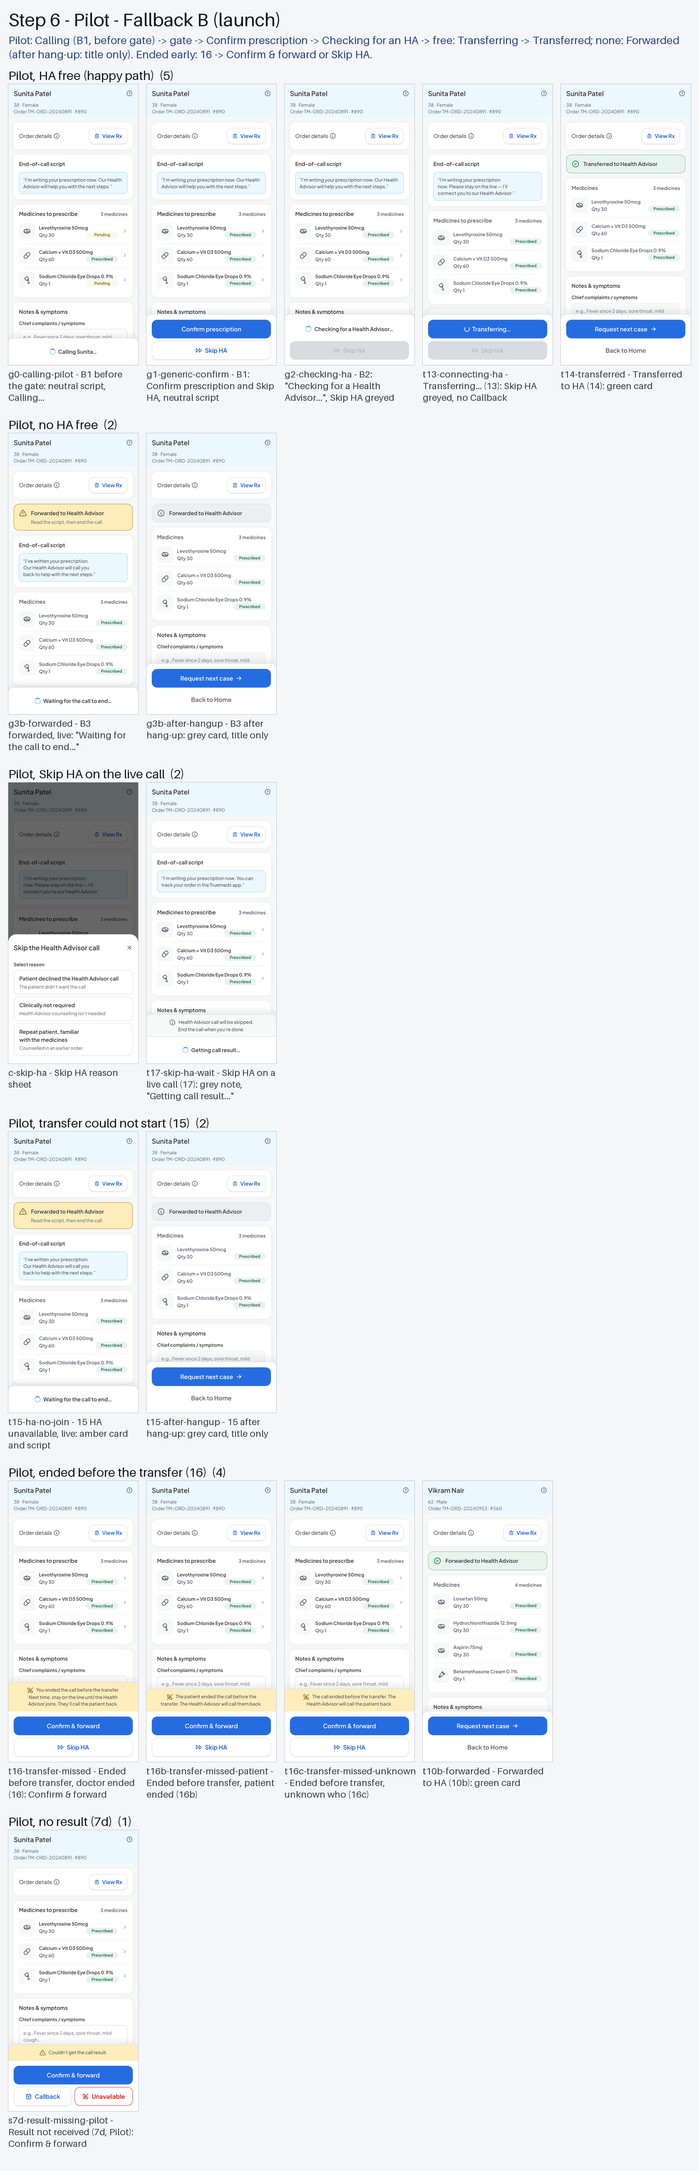
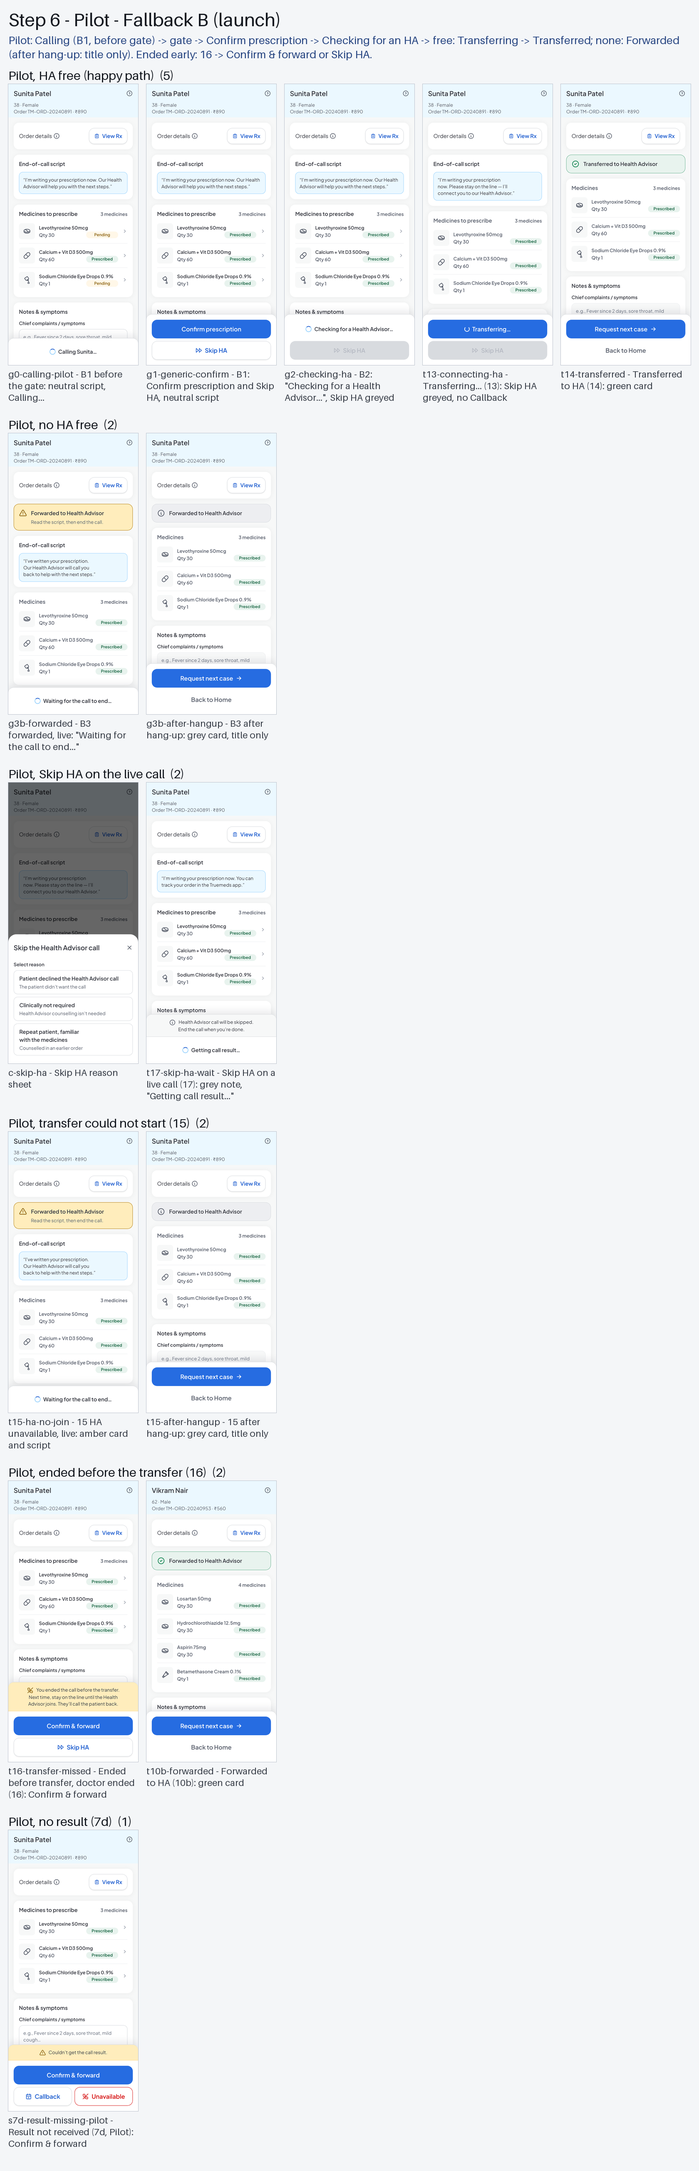
Doctor portal: a-confirm-failed without Callback (D-83 CW-C3, re-rendered); plan + checklist v3.2 approved (D-90)
Claude-Session: https://claude.ai/code/session_0184B2yP3hzu7xZN3ZKbVtJC

Changed region(s): [[0.2167, 0.7188, 0.7738, 0.8438]]

diff --git a/projects/truemeds-doctor-portal-prototype/ui-screens/case/case.html b/projects/truemeds-doctor-portal-prototype/ui-screens/case/case.html
@@ -1193,7 +1193,7 @@ document.addEventListener('DOMContentLoaded', syncCaseActionBar);
       const b = $('ps-body'); const l = [...b.querySelectorAll('.tm-field__label')].find(e => /^Food/.test(e.textContent.trim())); if (l) b.scrollTop += l.getBoundingClientRect().top - b.getBoundingClientRect().top - 16; }, 150); },
     'd-disabled':              () => { switchScenario(CAT4); const m = DOCTOR_STATE.currentCase.medicines.find(x => x.id === 1); m.disabled = true; m.disable_reason = 'Patient declined'; openPS(1); },   // D-81 F17 (D-20)
     'a-confirm-busy':          () => { passGate(CAT4); allRx(); $('action-zone').style.display = 'none'; const b = $('main-cta-btn'); b.classList.add('tm-btn--busy'); b.disabled = true; b.setAttribute('aria-busy', 'true'); b.innerHTML = '<span class="tm-spinner" aria-hidden="true"></span>' + MSG('case.confirming'); $('ab-secondary').querySelectorAll('button').forEach(x => x.disabled = true); $('case-actionbar').querySelectorAll(':scope > button').forEach(x => { if (x !== b) x.disabled = true; }); window.__frozen = true; syncConcept(); },   // D-81 F24/F25: rows and notes read-only; View Rx stays outlined (D-76)
-    'a-confirm-failed':        () => { passGate(CAT4); allRx(); $('action-zone').style.display = 'none'; noticeAboveBar(notice('error', 'alert', MSG('case.confirmFailed'), 'alert-circle')); },
+    'a-confirm-failed':        () => { passGate(CAT4); allRx(); return later(() => { $('action-zone').style.display = 'none'; $('ab-secondary').style.display = 'none'; noticeAboveBar(notice('error', 'alert', MSG('case.confirmFailed'), 'alert-circle')); }, 200); },   // D-83 CW-C3: after a valid call only the confirm button — no Callback (same pattern as t08c)
     'a-release-failed':        () => { switchScenario(CAT4); showLeave(); const b = $('cl-release'); b.classList.add('tm-btn--busy'); b.disabled = true; b.innerHTML = '<span class="tm-spinner" aria-hidden="true"></span>Releasing…'; $('cl-stay').disabled = true; $('cl-x').disabled = true; setTimeout(() => { leave.hidden = true; b.classList.remove('tm-btn--busy'); b.disabled = false; b.textContent = 'Release case'; $('cl-stay').disabled = false; $('cl-x').disabled = false; noticeAboveBar(notice('error', 'alert', MSG('case.releaseFailed'), 'alert-circle')); ready(); }, 300); return 'wait'; },   // A-19: the result of an action sits in the bar, above its button
     'd-rx-failed':             () => { switchScenario(CAT4); openRxOverlay(); $('rx-doc-wrapper').style.display = 'none'; $('rx-hint').style.display = 'none'; $('rx-controls').style.display = 'none'; const f = document.createElement('div'); f.className = 'concept-new concept-stack'; f.appendChild(notice('error', 'alert', MSG('rx.loadFailed'), 'alert-circle')); $('rx-overlay-body').appendChild(f); const bar = document.createElement('div'); bar.className = 'tm-actionbar concept-new'; bar.appendChild(pinnedTryAgain()); $('rx-overlay').appendChild(bar); },
     'a-no-medicines':          () => { switchScenario(CAT4); renderMedicines([]); $('medicines-count').style.display = 'none'; const e = document.getElementById('medicines-empty'); e.hidden = true; e.innerHTML = ''; window.__emptyCase = true; $('action-zone').style.display = 'none'; main.insertBefore(cardNotice(notice('warning', 'status', MSG('case.noMedicines'), 'alert-triangle')), tools); const rel = btn('tm-btn--primary tm-btn--block', 'Release case'); rel.onclick = () => $('cl-release').click(); setBar(rel); },   // K4 (CW-A6): amber notice at the top of the panel; Release case releases directly

diff --git a/projects/truemeds-doctor-portal-prototype/docs/renders/2026-11-06-confirm-failed-fix/REPORT.md b/projects/truemeds-doctor-portal-prototype/docs/renders/2026-11-06-confirm-failed-fix/REPORT.md
@@ -1,0 +1,52 @@
+# Report — re-render `a-confirm-failed` (Callback removed)
+
+Date: 2026-11-06 · Brief: `BRIEF.md` (backlog bug 2026-11-05) · Runner: Claude Code (terminal)
+
+## Bug and fix
+- `ui-screens/case/a-confirm-failed` (390 and 360) showed **Callback** under Confirm prescription. After a valid call only the confirm button shows (D-83 CW-C3).
+- The recipe fix was already in `ui-screens/case/case.html` (line for `'a-confirm-failed'`: hides `ab-secondary`, same pattern as `t08c`). I did not change `case.html`.
+
+## Files changed
+- `ui-screens/case/a-confirm-failed_w390.png` — replaced with the new render.
+- `ui-screens/case/a-confirm-failed_w360.png` — replaced with the new render.
+- `ui-screens/case/contact-case.png` — rebuilt by `build-contact-sheets.py` (it shows the 390 picture above, so it has to match).
+- `docs/reviews/2026-11-05-plan-v3-review/build-map/index.md`, `step-3.png`, `step-6.png` — rebuilt by `build-map.py` (see note below).
+- New folders: `docs/renders/2026-11-06-confirm-failed-fix/before/` (old pair), `after/` (new pair, `capture-log.json`, `spinners.json`), this `REPORT.md`.
+
+Not changed, by design: `case.html` (already fixed before this task), backlog, decision log, commits.
+
+Reverted: `build-contact-sheets.py` also rewrote six contact sheets for folders I did not touch (`sign-in`, `otp`, `home`, `prescribe`, `returning-unlock`, `faster-signin-offer`). I restored them with `git checkout`.
+
+## Render
+- Method: `docs/renders/2026-11-03-calling-round/capture-method-cap.py` with `case/a-confirm-failed$`. Rendered 2 pictures, 0 page errors.
+- The script needs Playwright. The system Python does not have it, so I ran it from a scratch venv (outside the repo) with Playwright and Chromium installed there. No repo dependency added.
+
+## Check of the new pictures (opened both, 390 and 360)
+- No Callback. Only Confirm prescription in the bar.
+- Red band "Couldn't confirm. Nothing was lost." sits inside the bar, above Confirm prescription.
+- Medicines rows, View Rx, header and notes unchanged in look.
+
+## Before / after
+- Difference starts at the bottom edge of the Medicines card (2x y≈1233) and runs down through the bar. Rows below the bar are identical (24 rows from the bottom match).
+- Expected, not a stray change: the bar lost the Callback row, so the scroll area above it is taller. The Notes card now shows a little more above the band.
+
+## Guards
+| Guard | Result |
+|---|---|
+| `ui-screens/feedback/check-locked-specs.py` | PASS — 0 failures over 149 states × 3 viewports; small-phone pass 149 states at 360×640 |
+| `node ui-screens/feedback/check-sources.mjs` | PASS — 660 strings, 85 registry IDs |
+| `docs/layout_check.py` | ALL PASS (includes `no page errors`) |
+| `brand/check_lockup.py` | lockup OK |
+
+## Review-aid rebuild
+- `build-contact-sheets.py`: ran. Kept `contact-case.png`; reverted the six unrelated sheets (see above).
+- `build-map.py`: ran. Output rebuilt, but it now reports a plan-text problem, not a picture problem:
+  - Unmatched tokens: `t16b-…`, `t16c-…` (plan step 6 now uses an ellipsis form the parser doesn't expand) and `rx.load-failed` (plan step 3, a behaviour-only state with no picture).
+  - Result: 147 of 149 pictures placed; `t16b` and `t16c` missing from the step 6 image.
+  - `d-rx-failed` now named in plan step 4 as well as step 3. Shown at step 3.
+  - Fix belongs in the parser or plan wording; I did not change either. Flag for the main thread.
+
+## Open items for the main thread
+- Backlog tick and decision log: not touched (per brief).
+- Commit and push: not done (per brief).
+- build-map gap above.

diff --git a/projects/truemeds-doctor-portal-prototype/docs/reviews/2026-11-05-plan-v3-review/build-map/index.md b/projects/truemeds-doctor-portal-prototype/docs/reviews/2026-11-05-plan-v3-review/build-map/index.md
@@ -10,22 +10,22 @@ Review aid for Apurva (approve from screens, not state names). Each image: appro
 | 3 | Case page (incl. empty case, leave sheet, release failed, Rx failed) | 22 | Case opened -> Ready (Call patient starts step 5). | [step-3.png](step-3.png) |
 | 4 | Prescribe and Disable | 22 | Case -> tap a medicine -> Prescribe (schedule, dose) -> Prescribed. | [step-4.png](step-4.png) |
 | 5 | Calling - Cat4 and Pilot with HA skipped | 22 | Call patient -> Calling. | [step-5.png](step-5.png) |
-| 6 | Pilot - Fallback B (launch) | 16 | Pilot: Calling (B1, before gate) -> gate -> Confirm prescription -> Checking for an HA -> free: Transferring -> Transferred; none: Forwarded (after hang-up: title only). | [step-6.png](step-6.png) |
+| 6 | Pilot - Fallback B (launch) | 14 | Pilot: Calling (B1, before gate) -> gate -> Confirm prescription -> Checking for an HA -> free: Transferring -> Transferred; none: Forwarded (after hang-up: title only). | [step-6.png](step-6.png) |
 | 9 (LATER) | LATER - Version A (not in the first build) | 3 | Calling (transfer case) -> Confirm & transfer -> Transferring -> Transferred. | [step-9.png](step-9.png) |
 | 7 | Across journeys: availability ends mid-case, reopen into an open case, app backgrounded during a call | none (app-logic 3 - 4) | - | - |
 | 8 | Final pass: copy parity with native, G7 over everything | all (no new picture) | - | - |
 
 ## Gaps
 
-- Pictures in ui-screens/ that no step uses: 0 (none).
-- Plan section 5 tokens that match no picture: 0 (none).
-- Named twice in plan section 5 (shown once, at the step that names it exactly): `d-rx-failed` named in step 3 (exact), step 4 (range/wildcard); shown once, at step 3. `s7d-result-missing-pilot` named in step 5 (range/wildcard), step 6 (exact); shown once, at step 6. `s7e-leave-sheet` named in step 3 (exact), step 5 (range/wildcard); shown once, at step 3.
+- Pictures in ui-screens/ that no step uses: 2 (case/t16b-transfer-missed-patient, case/t16c-transfer-missed-unknown)
+- Plan section 5 tokens that match no picture: 3 ([(3, 'rx.load-failed'), (6, 't16b-…'), (6, 't16c-…')])
+- Named twice in plan section 5 (shown once, at the step that names it exactly): `d-rx-failed` named in step 3 (exact), step 4 (range/wildcard), step 4 (exact); shown once, at step 3. `s7d-result-missing-pilot` named in step 5 (id/folder), step 6 (exact); shown once, at step 6.
 - Behaviour-only states (in feedback-state-map, no picture, not on the map): `offer.cancelled` (step 1), `offer.not-now` (step 1), `offer.unsupported` (step 1), `offer.enabled` (step 1), `rx.load-failed` (step 3), `case.reopened` (step 7).
 - Picture triggers that live in a later step (picture shown in step 3, trigger in steps 5-6): `case/a-back-blocked`, `case/a-confirm-busy`, `case/a-confirm-failed`. `home/home_profile-case-open` needs an open case.
 
 ## Self-check
 
-- Every approved picture in this map appears once: 149 placed, 149 unique, pictures on disk 149.
+- Every approved picture in this map appears once: 147 placed, 147 unique, pictures on disk 149.
 - Labels: taken from ui-screens/README.md, calling-flow/data.js, app-logic.md and feedback-state-map.md. Readable at phone width: checked by eye only at the sizes built (see note below).
 - No screen cropped: thumbnails are the full 390 x 844 picture scaled to 40 %.
 - Note: the labels and flow lines were written from the sources above; if a source changes, rerun the script after editing LABELS / FLOW.

diff --git a/projects/truemeds-doctor-portal-prototype/CLAUDE.md b/projects/truemeds-doctor-portal-prototype/CLAUDE.md
@@ -46,7 +46,7 @@ Before any auth/Home UI or render work, read `docs/feedback-rules.md` and `docs/
 ## Current state (2026-11-03) — read first
 - **Screens and app logic are approved and frozen** (D-78, re-frozen D-82): `ui-screens/` (README is the index; **149 states** at 360 and 390) and `ui-screens/app-logic.md`, with **D-83** (calling walkthrough), **D-84** (copy rules + copy round), **D-85** (17 Skip HA on a live call), **D-86** (bar notice centred) and **D-87** (Fallback B is the one Pilot flow; A-only screens later) applied. Render only what is genuinely new; every round runs the regression gate G7 (`docs/renders/2026-11-01-fix-round/CHECKLIST.md`). Anything new is a bug (fix where it occurs) or a next-version idea (backlog §4b).
 - **Start here:** `docs/context/session_handoff.md` (latest entry) and `docs/context/backlog.md` (§2l).
-- **Next: prototype build** — readiness answered (D-88, Part C closed). Build from **plan v3** (`docs/proposals/2026-11-05-prototype-build-plan-v3.md`) and **rebuild checklist v3** (`docs/reviews/2026-11-05-rebuild-checklist-v3.md`) once Apurva approves them: shell first, Fallback B before version A. Calling reference: `calling-flow/` (`data.js`). Preview site deploys only on request. Do not extend `index.html` / `app.js`.
+- **Now: prototype build, step 0** — plan v3.2 and rebuild checklist v3.2 **approved** (D-90): `docs/proposals/2026-11-05-prototype-build-plan-v3.md`, `docs/reviews/2026-11-05-rebuild-checklist-v3.md`. Fallback B first; one owner per picture; phone testing via QR play link + drawer (D-89). Step 0 begins with the stale-line fixes in `docs/reviews/2026-11-05-plan-v3-review/MERGE.md` §4. Calling reference: `calling-flow/` (`data.js`). Preview site deploys only on request. Do not extend `index.html` / `app.js`.
 - **Checks:** `ui-screens/feedback/check-locked-specs.py`, `check-sources.mjs`, `docs/layout_check.py`, `brand/check_lockup.py` — all 0 failures over all 149 states. Rebuild review aids with `ui-screens/_qa/` (`build-review.py`, `build-contact-sheets.py`, `build-storyboard.py`).
 - **Sub-sessions (terminal, Codex) never write to the decision log or record approvals in Apurva's name;** they report under NEEDS-APURVA and Claude records decisions after she agrees.
 - **Audit rule:** before calling screens done, check every decision against every screen it touches at full size (360 and 390), not on contact sheets.

diff --git a/projects/truemeds-doctor-portal-prototype/docs/renders/2026-11-06-confirm-failed-fix/BRIEF.md b/projects/truemeds-doctor-portal-prototype/docs/renders/2026-11-06-confirm-failed-fix/BRIEF.md
@@ -1,0 +1,18 @@
+# Brief — re-render `a-confirm-failed` (bug, backlog 2026-11-05)
+
+Owner: main Claude thread · Runner: Claude Code (terminal) · 2026-11-06 · Folder: this project (`.work/truemeds-doctor-portal-prototype/projects/truemeds-doctor-portal-prototype`).
+
+**The bug:** `ui-screens/case/a-confirm-failed` (390 + 360) shows **Callback** under Confirm prescription. After a valid call only the confirm button shows (D-83 CW-C3). **The recipe is already fixed** in `ui-screens/case/case.html` (line with `'a-confirm-failed'`: now hides `ab-secondary`, same pattern as `t08c`). Don't change the recipe or anything else in `case.html`.
+
+## Do
+1. Copy the two current pictures to `docs/renders/2026-11-06-confirm-failed-fix/before/`.
+2. Render only this state, with the same method as every approved picture:
+   `python3 docs/renders/2026-11-03-calling-round/capture-method-cap.py docs/renders/2026-11-06-confirm-failed-fix/after 'case/a-confirm-failed$'`
+3. Check both new pictures yourself (open them): no Callback; red band "Couldn't confirm. Nothing was lost." inside the bar above **Confirm prescription**; everything else as before. `after/capture-log.json` shows 0 page errors. Compare before vs after: differences only in the action bar area.
+4. Copy the two new pictures over `ui-screens/case/a-confirm-failed_w390.png` and `_w360.png`.
+5. Run the guards — all must be 0 failures / PASS: `python3 ui-screens/feedback/check-locked-specs.py` · `node ui-screens/feedback/check-sources.mjs` · `python3 docs/layout_check.py` · `python3 brand/check_lockup.py`.
+6. Rebuild review aids: `python3 ui-screens/_qa/build-contact-sheets.py` and `python3 ui-screens/_qa/build-map.py`. If any script rewrites an unrelated file, revert that file.
+7. Write `docs/renders/2026-11-06-confirm-failed-fix/REPORT.md`: files changed, guard results, before / after note. Then tell Apurva it's done and stop.
+
+## Don't
+Commit, push, tick the backlog or touch the decision log — the main thread does that after checking.

diff --git a/projects/truemeds-doctor-portal-prototype/docs/context/backlog.md b/projects/truemeds-doctor-portal-prototype/docs/context/backlog.md
@@ -156,5 +156,5 @@ Brief: `docs/renders/2026-11-01-fix-round/TERMINAL-BRIEF.md` "Round 4"; audit: `
 - [ ] Calling-flow live page: **deploy with the next approved merge of this branch** (Apurva, 2026-11-05 — wait until the build plan v3 is approved, then put `[deploy]` in that PR title). The live copy is still the 3 Nov version (no happy path, old zoom).
 - [x] Calling-flow page navigation (Apurva, 2026-11-05): scroll / swipe moves, pinch or ⌘ + scroll zooms, opens at 100 %, zoom % with 50 % / 100 % / Fit, jump-to-lane buttons.
 - [ ] **Later (logged, not built):** calling-flow page mini-map (where you are in the whole flow) and a "Find a state" box (type "17" or "Transferring" to jump there).
-- [ ] **Bug (Apurva, 2026-11-05):** `ui-screens/case/a-confirm-failed` (390 + 360) still shows **Callback** under Confirm prescription — after a valid call only the confirm button (D-83 CW-C3). Cause: the recipe in `case.html` uses `passGate(CAT4)`, whose old bar keeps Callback (`a-confirm-busy` hides it, so it is fine). Fix the recipe, re-render the two pictures only; the calling-flow page picks them up by itself.
+- [x] **Fixed 2026-11-06** (recipe hides `ab-secondary`; two pictures re-rendered, guards 0; `docs/renders/2026-11-06-confirm-failed-fix/REPORT.md`). **Bug (Apurva, 2026-11-05):** `ui-screens/case/a-confirm-failed` (390 + 360) still shows **Callback** under Confirm prescription — after a valid call only the confirm button (D-83 CW-C3). Cause: the recipe in `case.html` uses `passGate(CAT4)`, whose old bar keeps Callback (`a-confirm-busy` hides it, so it is fine). Fix the recipe, re-render the two pictures only; the calling-flow page picks them up by itself.
 - [ ] **Next version — live remote for phone tests (D-89):** the desktop review panel drives the phone in real time (paired by a short code). Needs a message relay (Netlify function — credits — or a third-party service). Only if live demos for Engineering / Ops need it.

diff --git a/projects/truemeds-doctor-portal-prototype/docs/proposals/2026-11-05-prototype-build-plan-v3.md b/projects/truemeds-doctor-portal-prototype/docs/proposals/2026-11-05-prototype-build-plan-v3.md
@@ -1,6 +1,6 @@
 # Doctor portal — prototype build plan v3
 
-**Status:** DRAFT v3.2 for Apurva's approval (2026-11-05). Nothing is built until this plan and rebuild checklist v3 (`docs/reviews/2026-11-05-rebuild-checklist-v3.md`) are approved.
+**Status:** **APPROVED v3.2** (Apurva, 2026-11-06, D-90) together with rebuild checklist v3.2 (`docs/reviews/2026-11-05-rebuild-checklist-v3.md`). Changes from here on: bug (fix where it occurs) or next version (backlog).
 **Replaces:** `docs/proposals/2026-10-29-prototype-build-plan.md` (v2). **[v3]** = changed from v2 · **[R]** = changed after the independent review · **[R2]** = Apurva's answers after the review (D-89) (`docs/reviews/2026-11-05-plan-v3-review/`: Claude Code + Codex reports, merged in `MERGE.md`).
 **Scope:** how the *prototype* is built. Not the production HLD/LLD — that is Engineering's.
 **Inputs (frozen):** `ui-screens/` (149 states, re-frozen at D-85) · `ui-screens/app-logic.md` · `ui-screens/feedback/messages.json` · `docs/feedback-state-map.md` · `design-system/` (RULES §7–9) · decision log D-01 – D-88 · calling-flow page `calling-flow/` (`data.js`) as the calling reference **[v3]**.
@@ -44,7 +44,7 @@ The old `index.html` / `app.js` / `styles.css` stay frozen; the current site kee
 
 1. ✅ Screens frozen (D-85) · ✅ copy round merged (D-84) · ✅ Part C closed (D-88).
 2. ✅ `app-logic.md` approved (launch B flow above the version-A tables).
-3. **This plan and rebuild checklist v3 approved.**
+3. ✅ This plan and rebuild checklist v3.2 approved (D-90).
 
 ## 3. How it's built
 

diff --git a/projects/truemeds-doctor-portal-prototype/docs/context/session_handoff.md b/projects/truemeds-doctor-portal-prototype/docs/context/session_handoff.md
@@ -907,3 +907,8 @@ User identified missing HTML/native linkage. Inspected actual sign-in and OTP HT
 - **Next:** Apurva approves plan + checklist v3 (§8 P1–P5) → step 0 (shell). Nothing built yet.
 - **Review (23:40):** Claude Code + Codex reviewed plan / checklist v3 independently (`docs/reviews/2026-11-05-plan-v3-review/`); merged in `MERGE.md` and applied in one pass (v3.1, marked [R]): one owner per picture, behaviour-only states, Prescribe / Rx / entry / Home test lines, call simulator and settings completed, hosting spelled out, step column. Build map (every step as its real screens) in `build-map/`, script `ui-screens/_qa/build-map.py`. Open for Apurva: **Q-A** Pilot 7d ending (rec. 10b), **Q-B** phone check at step 6 (rec. yes), then approve P1–P5. Step 0 starts with the stale-line fixes in MERGE.md §4.
 - **23:56 — D-89:** Q-A Pilot 7d → 10b; Q-B phone check at step 6; phone testing = play link (QR) + hidden drawer, live remote in backlog. Plan / checklist v3.2. Waiting: Apurva's approval of plan v3.2 → step 0.
+
+## 2026-11-06 · Plan v3.2 approved (D-90); a-confirm-failed fixed
+- **Done:** `a-confirm-failed` (390 + 360) re-rendered without Callback (recipe fix in `case.html`, terminal render on the Mac, guards 0, contact sheet + build map rebuilt; `docs/renders/2026-11-06-confirm-failed-fix/`). Backlog line ticked. Plan + checklist v3.2 approved (D-90).
+- **Next:** step 0 — first the stale-line fixes (MERGE.md §4), then the shell, per plan §5. Brief for the terminal from the main thread.
+

diff --git a/projects/truemeds-doctor-portal-prototype/docs/context/decision_log.md b/projects/truemeds-doctor-portal-prototype/docs/context/decision_log.md
@@ -948,6 +948,11 @@ From an external (ChatGPT) review, each point verified before acting.
 - **Why:** each ending names what happened and D-50 keeps forward and confirm as separate outcomes; Pilot is the most changed journey; controls on top of the app make the phone test stop feeling like the real app.
 - **Rejected:** "Prescription confirmed" for both 7d routes (counts a forward as a confirm); phone checks only at steps 5 and 8; review panel stacked above the app on a phone; live remote now (needs a relay — Netlify function credits or a third-party service — and more to build).
 
+### D-90 · Build plan and rebuild checklist v3.2 approved; build starts at step 0 — 2026-11-06
+- **Decision (Apurva):** `docs/proposals/2026-11-05-prototype-build-plan-v3.md` and `docs/reviews/2026-11-05-rebuild-checklist-v3.md` (v3.2, incl. D-88, D-89 and the independent review merged in `docs/reviews/2026-11-05-plan-v3-review/MERGE.md`) approved as the definition of done for the prototype build. P1–P6 as written. Build starts at step 0 (shell + the stale-line fixes in MERGE.md §4). Frozen from here: new findings are bugs or next-version ideas.
+- Also done before approval: `a-confirm-failed` re-rendered without Callback (D-83 CW-C3; bug, backlog 2026-11-05).
+- **Why:** inputs are frozen and both reviews' findings are applied; the checklist is the test-case base.
+
 ## Design system changes made for this work
 
 ### D-60 · Secondary button without drop shadow (design system) — 2026-10-24 · **REVERTED same day**

diff --git a/projects/truemeds-doctor-portal-prototype/docs/reviews/2026-11-05-rebuild-checklist-v3.md b/projects/truemeds-doctor-portal-prototype/docs/reviews/2026-11-05-rebuild-checklist-v3.md
@@ -1,6 +1,6 @@
 # Doctor portal — prototype rebuild checklist v3
 
-**Status:** DRAFT v3.2 for Apurva's approval (2026-11-05). Goes with `docs/proposals/2026-11-05-prototype-build-plan-v3.md`.
+**Status:** **APPROVED v3.2** (Apurva, 2026-11-06, D-90). Goes with `docs/proposals/2026-11-05-prototype-build-plan-v3.md`.
 **Replaces:** `docs/reviews/2026-10-29-rebuild-checklist.md` (v2). **[v3]** = changed from v2 · **[R]** = changed after the independent review (`docs/reviews/2026-11-05-plan-v3-review/MERGE.md`).
 **Use:** every build step is reviewed against this list, not taste. A step passes only when every line whose **Step** column names it passes. Results recorded per step: line ID × state × width, pass / fail / not run, with the build version and source versions. This list is the first draft of the QA test cases (D-79, D-88); each line ID becomes a test ID.
 **How:** **auto** = script on every state (360 and 390 compared with pictures; 430 and 360 × 640 layout only) · **compare** = screenshot vs approved picture · **eye** = self-audit + reviewer · **device** = Apurva's phones · **run** = journey played end to end by a test, with its starting state and expected result written in the state map.
